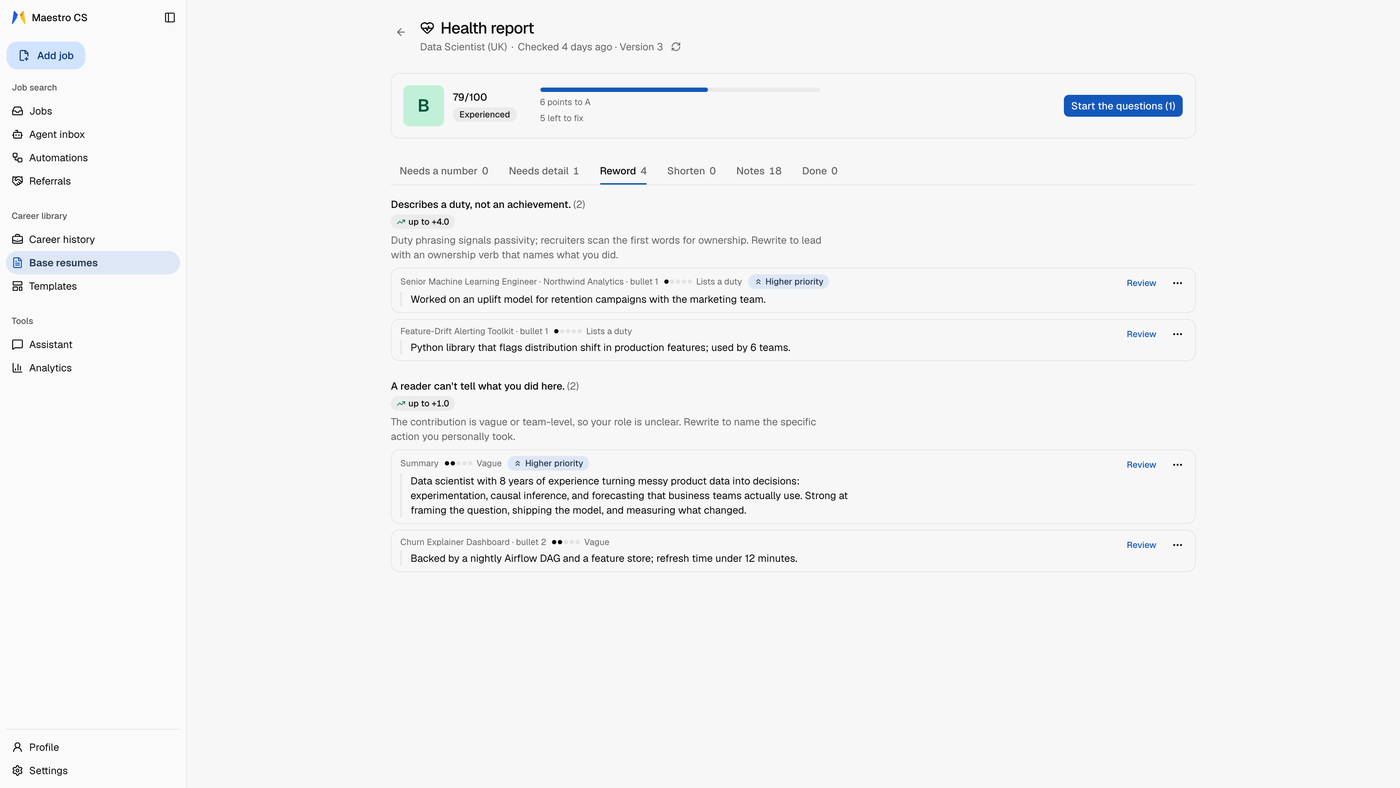
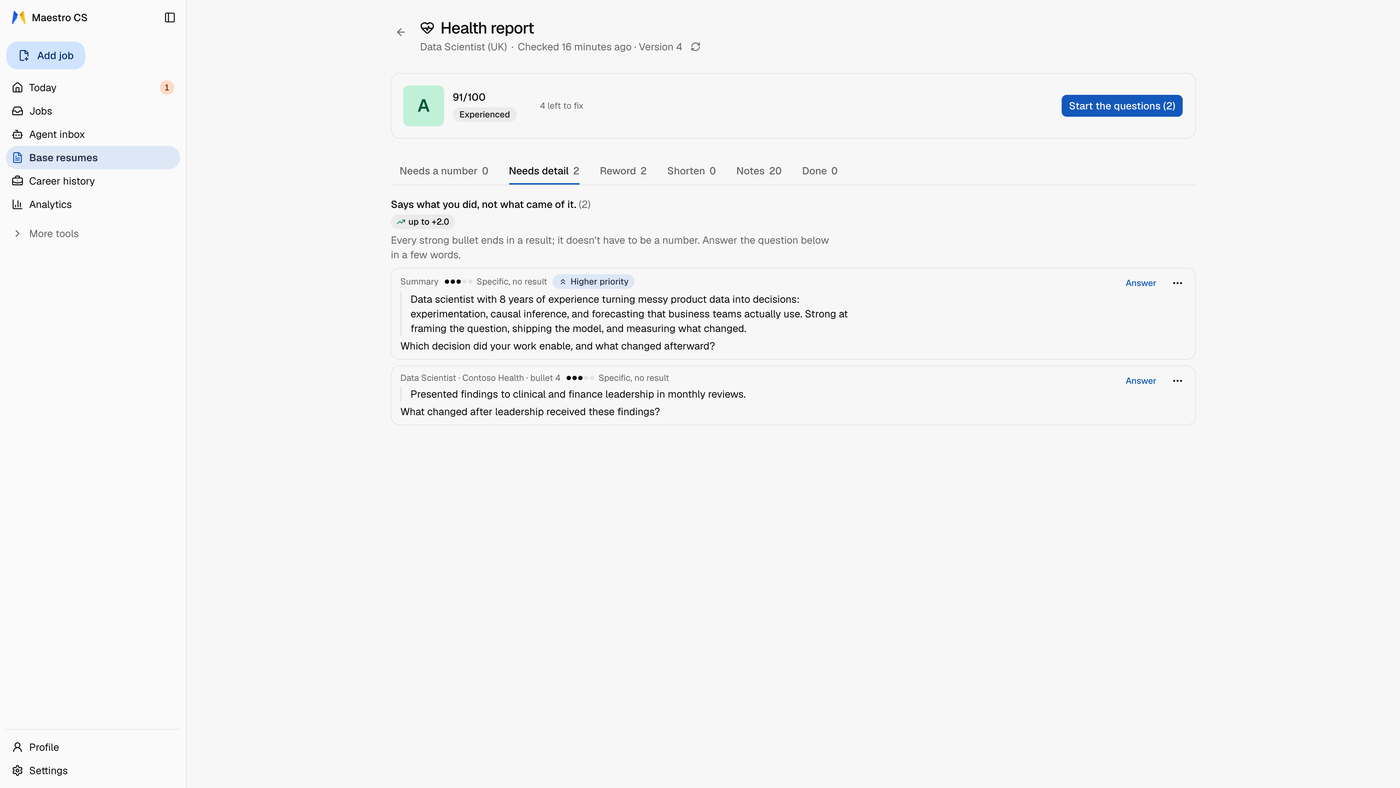
feat(media): 0.12.0 screenshots and the new Setup and Settings words
Six stills retaken on the 0.12.0 design refresh with the fictional Jordan
Ellis persona (maestro-marketing/site-media-1022): base-gallery,
job-score, tailor-review, base-resume, health-report, agent-inbox. Alt
texts follow the new captures (79.0 → 86.5). The install steps say Setup
asks for the key first, and Settings › Basics / › Agent apps replace AI &
models and Connected agents. The Companion GIF and the hero stay.

diff --git a/content/site.ts b/content/site.ts
@@ -19,7 +19,7 @@
  *
  * Vocabulary is the app's: Match score (never "ATS score"; "ATS" only where
  * applicant tracking systems are explained), Career history, Target, Jobs,
- * Agent inbox, Settings › AI & models, the Companion. Submitting: the
+ * Agent inbox, Setup, Settings › Basics and › Agent apps, the Companion. Submitting: the
  * Companion fills the form and stops, you press Submit. The opt-in Full
  * automation is stated in the use-cases section and in the FAQ answer. It also
  * turns on the Companion's Apply (0.11.0), which the Companion card names:
@@ -190,7 +190,7 @@ export const capabilities = {
       title: "It asks instead of inventing",
       body: "Every job is scored against your base resumes when you save it. The Match score shows what a job wants that your resume doesn't show yet. Maestro asks you about each gap. If it's true, it's saved for every future application. If it isn't, it stays a gap.",
       image: "/media/job-score.png",
-      imageAlt: "A saved job's page with its four numbered steps, Job, Resume and gaps, Tailored resume and Apply, open on Resume and gaps: two base resumes as chips, both at 82.4, a note that one resume for another country wasn't scored, the Score breakdown open with five subscores and skills covered, and a Gap analysis done card: 7 gaps answered, 1 skipped",
+      imageAlt: "A saved job's page with its four numbered steps, Job, Resume and gaps, Tailored resume and Apply, open on Resume and gaps: two base resumes as chips, both at 79.0, a note that one resume for another country wasn't scored, the Score breakdown open with five subscores and skills covered, and a Gap analysis done card: 9 gaps answered, 1 skipped",
       href: `${docs.using}#3-save-the-job-then-close-the-gaps`,
     },
     {
@@ -201,7 +201,7 @@ export const capabilities = {
       body: "Every change arrives as a diff, line by line, the way a developer reviews a code change before accepting it. Accept it or undo it.",
       quote: "The AI fills in emphasis. It doesn't invent a new person.",
       image: "/media/tailor-review.png",
-      imageAlt: "The same job's Tailored resume step: the Match score going from 82.4 to 87.3, three changes from the base resume, each shown struck through and rewritten with a Revert button and marked From your career history or You, then the PDF and its one-page preview",
+      imageAlt: "The same job's Tailored resume step: the Match score going from 79.0 to 86.5, three changes from the base resume, each shown struck through and rewritten with a Revert button and marked From your career history or You, then the PDF and its one-page preview",
       href: `${docs.using}#how-it-works`,
     },
     {
@@ -386,7 +386,7 @@ export const faqs = [
   },
   {
     q: "Will it apply to jobs for me?",
-    a: "By default it carries an application to the point of submission and stops. The Companion fills the page you're on and stops, and you press Submit. With a connected agent, an apply run waits for your yes before each submit, within a daily limit you set. Nothing is submitted from the web app, and a submit click that can't be verified is never retried. Full automation is opt-in, off by default in Settings › Connected agents, and it changes two things. Your own agent may submit queued jobs whose final review is clean. And the Companion's Apply takes one job through its application in the tab: it fills each page, clicks Next, signs in or makes an account on known application sites with the job-site login you saved, and stops on the review page. The Companion never presses Submit. When the confirmation page shows after your Submit, it marks the job applied.",
+    a: "By default it carries an application to the point of submission and stops. The Companion fills the page you're on and stops, and you press Submit. With a connected agent, an apply run waits for your yes before each submit, within a daily limit you set. Nothing is submitted from the web app, and a submit click that can't be verified is never retried. Full automation is opt-in, off by default in Settings › Agent apps, and it changes two things. Your own agent may submit queued jobs whose final review is clean. And the Companion's Apply takes one job through its application in the tab: it fills each page, clicks Next, signs in or makes an account on known application sites with the job-site login you saved, and stops on the review page. The Companion never presses Submit. When the confirmation page shows after your Submit, it marks the job applied.",
   },
   {
     q: "Is the match score what an employer's ATS shows?",
@@ -444,7 +444,7 @@ maestro start`,
       {
         accent: "tangerine" as Accent,
         t: "Add your AI key",
-        b: "Settings › AI & models: paste one key, from OpenAI, Gemini or Claude, and press Test on each model. Without one, scoring, PDFs and tracking still work.",
+        b: "Setup opens first: pick your AI, paste one key, from OpenAI, Gemini or Claude, and press Test. You can change it later in Settings › Basics. Without one, scoring, PDFs and tracking still work.",
       },
       {
         accent: "teal" as Accent,
@@ -466,7 +466,7 @@ maestro start`,
 cd maestro-career-studio
 cp .env.example .env
 docker compose up -d`,
-    after: "Open http://localhost:3000, then add your key in Settings › AI & models.",
+    after: "Open http://localhost:3000. Setup asks for your key first.",
   },
   docs: {
     title: "Everything else is on GitHub",

diff --git a/lib/media.ts b/lib/media.ts
@@ -1,9 +1,10 @@
 /** Intrinsic sizes of the shipped captures, so the layout reserves space and
  *  never shifts while a screenshot or video decodes. Keep every entry in step
  *  with a file in public/media/, and every file with a use on the site.
- *  The stills and the Companion GIF are 0.11.0 captures of the fictional
- *  Jordan Ellis persona (maestro-marketing/site-media-1016/MANIFEST.md says
- *  what each one shows). The hero loop is still built from v0.10.1 captures. */
+ *  The stills are 0.12.0 captures of the fictional Jordan Ellis persona
+ *  (maestro-marketing/site-media-1022/MANIFEST.md says what each one shows);
+ *  the Companion GIF and its still are 0.11.0 captures (site-media-1016), as
+ *  its panel did not change. The hero loop is still built from v0.10.1 captures. */
 export const mediaSize: Record<string, { width: number; height: number }> = {
   "/media/hero.mp4": { width: 1512, height: 850 },
   "/media/base-gallery.png": { width: 1400, height: 788 },
